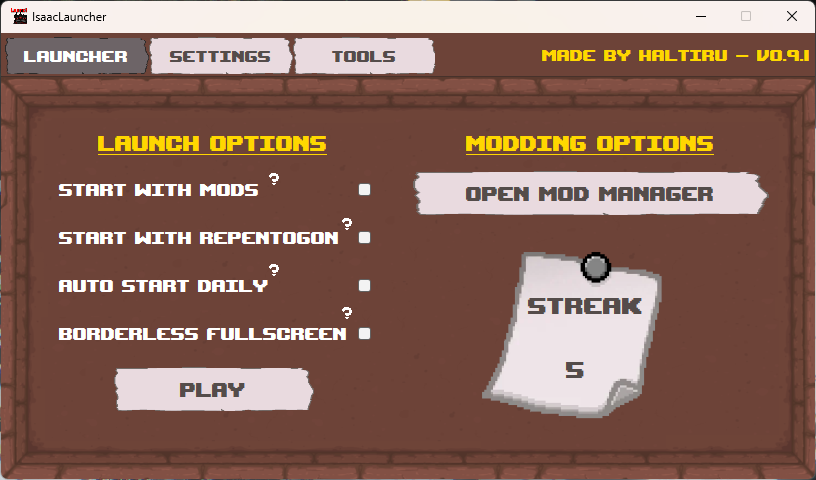
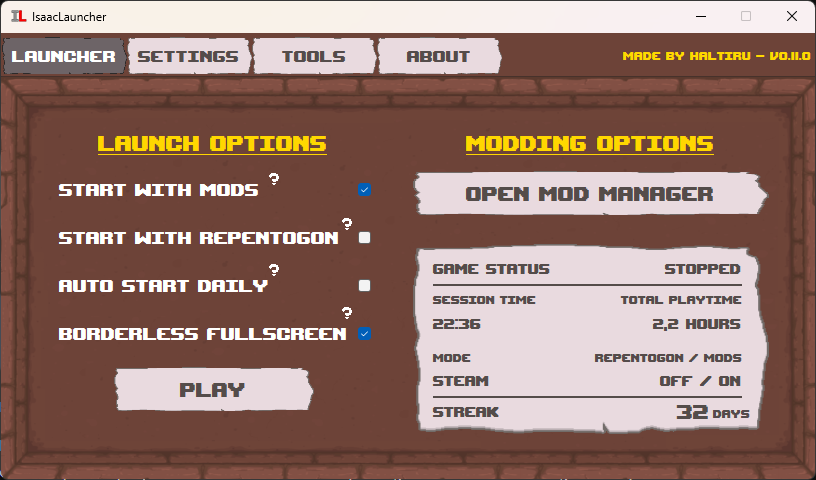
docs: update README and screenshots for v0.11.0

diff --git a/README.md b/README.md
@@ -1,261 +1,179 @@
-
 # 🎮 IsaacLauncherGUI
 
 **A feature-rich Windows launcher for The Binding of Isaac: Repentance+.**
 
-IsaacLauncherGUI is an unofficial launcher designed to make launching *The Binding of Isaac: Repentance+*, managing mods, handling save backups, and customizing your gameplay experience easier — all from one application.
+IsaacLauncherGUI is an unofficial, fan-made Windows application that makes it easier to launch *The Binding of Isaac: Repentance+*, manage mods, back up saves, and customize how the game starts.
 
-**Current Version:** `v0.10.0` — Updater & Stability Release
+**Latest stable version: `v0.11.0` — Live Game Status & Beta Update Channels**
 
-[📥 Download Latest Release](https://github.com/Haltiru/IsaacLauncher/releases/latest) • [🐛 Report a Bug](https://github.com/Haltiru/IsaacLauncher/issues) • [💡 Suggest a Feature](https://github.com/Haltiru/IsaacLauncher/issues)
+[📥 Download Latest Stable Release](https://github.com/Haltiru/IsaacLauncher/releases/latest) · [🧪 All Releases (including Betas)](https://github.com/Haltiru/IsaacLauncher/releases) · [🐛 Report a Bug](https://github.com/Haltiru/IsaacLauncher/issues) · [💡 Suggest a Feature](https://github.com/Haltiru/IsaacLauncher/issues)
 
 ---
 
 ## 📸 Screenshots
 
-### 🎮 Launcher
-![Launcher Tab](docs/screenshots/launcher-tab.png)
+### 🎮 Launcher — Game Controls & Live Status
+![Launcher tab showing game options and live game status](docs/screenshots/launcher-tab.png)
 
-### ⚙ Settings
-![Settings Tab](docs/screenshots/settings-tab.png)
+### ⚙ Settings — Launch Preferences
+![Settings tab with launch mode and system tray preferences](docs/screenshots/settings-tab.png)
 
-### 🛠 Tools
-![Tools Tab](docs/screenshots/tools-tab.png)
+### 🛠 Tools — Save Backups
+![Tools tab showing save backup controls](docs/screenshots/tools-tab.png)
+
+### ℹ About — Updates & Links
+![About tab showing beta update option and project links](docs/screenshots/about-tab.png)
 
 ### 🧩 Mod Manager
-![Mod Manager](docs/screenshots/mod-manager.png)
+
+![Mod Manager showing a mod thumbnail, formatted description, enabled and disabled mod lists](docs/screenshots/mod-manager.png)
 
 ---
 
 ## ✨ Features
 
-### 🚀 Game Launcher
+### 🚀 Game Launcher & Monitoring
 
-- **Multiple Launch Modes** — Launch through Steam, use a custom game executable, or start an existing portable game copy.
-- **REPENTOGON Support** — Configure and launch the game with REPENTOGON.
-- **Mod Toggle** — Enable or disable mods before launching.
-- **Borderless Fullscreen** — Play in a borderless fullscreen window.
-- **Instant Launch** — Automatically start the game when the launcher opens.
-- **Smart Start** — Automatically adjust mod and REPENTOGON settings around the daily challenge reset.
-- **Automatic Steam Startup** — Detect whether Steam is ready and attempt to start it when necessary.
-- **Game Monitoring** — Detect when the game starts or stops and control it using the Play/Stop button.
+- **Multiple launch modes** — Steam, a custom executable, or an existing compatible portable installation.
+- **REPENTOGON support** — Launch with a configured REPENTOGON executable.
+- **Mod toggle** — Enable or disable mods before launching.
+- **Borderless fullscreen** — Launch in a borderless window.
+- **Instant Launch** — Start the game automatically when opening the launcher.
+- **Smart Start** — Adjust launch options around daily challenge availability.
+- **Steam readiness** — Help ensure Steam is available before Steam-mode launches.
+- **Live Game Status** — See whether the game is stopped, starting, running, or stopping.
+- **Session timer & total playtime** — Track the current session and accumulated launcher-tracked playtime.
+- **Play/Stop controls** — Monitor and stop the running game from the launcher.
 
 ### 🧩 Mod Manager
 
-Manage your installed mods without manually editing game files.
-
-- Browse installed mods with names and descriptions.
-- Separate enabled and disabled mods into dedicated lists.
-- Enable or disable individual mods.
-- Enable or disable multiple mods using search filters.
+- Browse installed mods and their descriptions.
 - Search mods by name or description.
-- Display mod thumbnails.
+- View enabled and disabled mods separately.
+- Enable or disable individual mods or multiple filtered results.
+- View mod thumbnails, including downloaded thumbnails when available.
+- View formatted mod descriptions with BBCode support.
 - Open Steam Workshop pages when available.
-- Automatically download missing mod thumbnails.
-
-### 📦 Portable Mode
-
-IsaacLauncherGUI supports launching and managing existing portable game installations.
-
-- Launch an existing compatible portable game copy.
-- Support portable save locations.
-- **Ghost Mode** — Optionally clean up newly created Isaac folders after a supported portable session, using a compatibility marker and a confirmation warning.
-
-> [!IMPORTANT]
-> Creating new portable game copies is **not available in the public release**.
->
-> Portable Mode requires an existing compatible installation.
->
-> IsaacLauncherGUI does not include or distribute game files.
->
-> **Ghost Mode warning:** On compatible portable installations, cleanup may delete temporary `options.ini`, logs and `save_backups` in the newly created Isaac folder. Back up anything important before enabling it. Existing Isaac folders are not targeted.
 
 ### 💾 Save Management
 
 - Back up save data for all three save slots.
-- Support regular Steam and existing portable save locations.
-- Open the backup directory directly from the application.
+- Support regular Steam and compatible portable save locations.
+- Create a backup before launching the game, if enabled.
+- Open the backup directory directly from the launcher.
 
-### ⚙ Customization & Convenience
+### 📦 Existing Portable Installations
 
-- Persistent launcher configuration, with safer saves and recovery backups for corrupted config files.
-- Remember the launcher window position between sessions.
-- Custom game executable path.
-- Custom REPENTOGON executable path.
-- Minimize to the system tray instead of closing.
-- Optionally start minimized to the system tray.
-- Daily play streak tracking.
-- Smart Start streak tracking.
-- Custom-themed interface, buttons, settings, and tooltips.
+- Launch an existing compatible portable game installation.
+- Support compatible portable save locations.
+- **Ghost Mode** can clean up newly created Isaac folders after a supported portable session, with a confirmation warning.
 
-### 🔄 Automatic Updates
+> [!IMPORTANT]
+> Creating new portable game copies is **not included in public releases**. IsaacLauncherGUI does **not** include or distribute game files.
+>
+> **Ghost Mode:** Cleanup may remove temporary `options.ini`, logs, and `save_backups` from newly created Isaac folders. Back up anything important before enabling it. Existing Isaac folders are not targeted.
 
-- Automatically check GitHub Releases for new versions.
-- Display a custom update prompt with **Update / Later / Skip** choices.
-- Show download progress and installation status.
-- Download, extract, install and relaunch the updated launcher automatically.
-- Back up replaced application files and support rollback on installation errors.
-- Remove known leftover `.old` files from earlier launcher versions on startup.
+### ⚙ Convenience & Customization
+
+- Remember settings and window position between sessions.
+- Config recovery backups for damaged configuration files.
+- Minimize to the system tray or start minimized.
+- Custom game and REPENTOGON executable paths.
+- Daily streak tracking and custom pixel-inspired UI.
+
+### 🔄 Automatic Updates — Stable & Beta
+
+- **Stable channel (default)** — Receive stable releases only.
+- **Beta channel (opt-in)** — Receive prereleases as well as newer stable releases.
+- Semantic versioning support (for example, `0.11.0-beta.1` and `0.11.0`).
+- In-app **Update / Later / Skip** choices.
+- Download progress, installation status, automatic relaunch, and rollback on installation errors.
+
+> [!WARNING]
+> Beta releases may contain bugs or unfinished features. Switching from Beta to Stable does not automatically downgrade an installed beta build.
 
 ---
 
 ## 📥 Installation
 
-1. Visit the [Latest Release](https://github.com/Haltiru/IsaacLauncher/releases/latest) page.
-2. Download the release ZIP package.
-3. Extract the ZIP to a writable folder.
-4. Launch `IsaacLauncherGUI.exe`.
-5. Configure your game directory and preferred launch settings.
-6. Enjoy!
+1. Open the [latest stable release](https://github.com/Haltiru/IsaacLauncher/releases/latest).
+2. Download the release ZIP.
+3. Extract **all files** to a writable folder; keep the included DLLs alongside the executable.
+4. Run `IsaacLauncherGUI.exe`.
+5. Configure your game path and preferred launch options.
 
----
+To try prereleases, enable **Receive Beta Updates** on the **About** tab.
 
 ## 📋 Requirements
 
 | Requirement | Details |
 |---|---|
-| Operating System | Windows |
+| Operating system | Windows |
 | Framework | .NET Framework 4.8 |
 | Game | The Binding of Isaac: Repentance+ |
 | Steam | Required for Steam launch mode |
 | REPENTOGON | Optional |
-| Portable Mode | Existing compatible portable game copy |
-
-Some features require additional files or correctly configured paths.
+| Portable mode | Existing compatible portable installation |
 
 ---
 
-## 🛠 Building from Source
+## 🛠 Build from Source
 
-IsaacLauncherGUI is developed in **C# using Windows Forms** and targets **.NET Framework 4.8**.
-
-### Steps
-
-1. Clone the repository:
-
-   `git clone https://github.com/Haltiru/IsaacLauncher.git`
-
+1. Clone the repository: `git clone https://github.com/Haltiru/IsaacLauncher.git`
 2. Open `IsaacLauncherGUI.sln` in Visual Studio.
-3. Restore the required NuGet packages.
-4. Select the **Release** configuration.
-5. Build the solution.
+3. Restore NuGet packages.
+4. Select the **Release** configuration and build.
 
 > [!NOTE]
-> Certain private development-only components are intentionally excluded from the public source.
->
-> The public project is intended to be built in **Release** configuration. Debug builds may require additional local development files.
+> Some private development-only components are excluded from the public source. Debug builds may require additional local files.
 
 ---
 
 ## 🗺 Roadmap
 
-IsaacLauncherGUI is still actively being developed and improved.
-
 ### ✅ v0.9.0 — First Public Release
+Core launcher, multiple launch modes, REPENTOGON integration, Mod Manager, backups, and settings.
 
-The initial public version includes:
+### ✅ v0.10.0 — Updater & Stability
+Improved update installation, recovery, configuration reliability, window positioning, and portable cleanup safeguards.
 
-- Core game launcher
-- Multiple launch modes
-- REPENTOGON integration
-- Mod Manager
-- Save backups
-- Existing portable installation support
-- Custom launcher settings
-- Automatic updates
-- Quality-of-life features
+### ✅ v0.11.0 — Live Game Status & Beta Updates
+- Live game status, session timer, and total playtime.
+- Improved game startup and REPENTOGON monitoring.
+- Mod Manager thumbnail and BBCode improvements.
+- Stable/Beta update channels with semantic version handling.
+- UI refinements, refactoring, and stability improvements.
 
-### ✅ v0.10.0 — Updater & Stability Release
-
-- Redesigned in-app update dialog with progress and status displays.
-- Automatic update installation and launcher restart.
-- Launcher window position persistence.
-- Safer config saving and recovery from corrupted `config.json` files.
-- More cautious Ghost Mode cleanup for supported portable installations.
-- Fixed portable `options.ini` overwriting and cleaned up leftover `.old` files.
-
-### 🔧 Future v0.x Updates
-
-Portable-launcher configuration switching and other quality-of-life improvements are planned for later updates.
-
-Development will focus on:
-
-- [ ] Bug fixes and stability improvements
+### 🔧 Future v0.x Releases
+- [ ] Bug fixes and reliability improvements
 - [ ] Performance optimizations
-- [ ] UI/UX improvements and revamps
-- [ ] Quality-of-life additions
-- [ ] Improved reliability
-- [ ] General polishing and testing
+- [ ] UI/UX polishing
+- [ ] Quality-of-life features
 
-### 🎯 v1.0.0 — The Major Milestone
+### 🎯 v1.0.0 — Major Milestone
+- [ ] **Profile Manager** for gameplay configurations.
+- [ ] Complete major bug fixes and reliability improvements.
+- [ ] Optimize and polish the application and UI.
+- [ ] Thoroughly test the finished release.
 
-Version **1.0.0** will represent the first fully polished major release of IsaacLauncherGUI.
-
-Planned goals:
-
-- [ ] **Profile Manager** — Create and manage different gameplay profiles and configurations.
-- [ ] Complete major bug fixes.
-- [ ] Improve performance and optimization.
-- [ ] Revamp and polish the user interface.
-- [ ] Refine the overall user experience.
-- [ ] Reach a stable and reliable release state.
-
-> **There is no fixed release date for v1.0.0.**
->
-> It will be released when the launcher is ready, stable, and sufficiently polished.
-
-Roadmap features and priorities may change during development.
+**No fixed release date:** v1.0.0 will ship when the launcher is ready.
 
 ---
 
 ## 🙏 Credits
 
-### REPENTOGON Team
-
-The Mod Manager in IsaacLauncherGUI was strongly inspired by the REPENTOGON team's Mod Manager, particularly its design and overall workflow.
-
-IsaacLauncherGUI is an independently developed C# project, but credit goes to the **REPENTOGON Team** for the inspiration.
-
----
+The Mod Manager's design and workflow were strongly inspired by the **REPENTOGON Team**. IsaacLauncherGUI is independently developed in C#.
 
 ## 🐛 Bug Reports & Feature Requests
 
-Found a bug? Have an idea for a new feature?
-
-Feel free to open an issue on GitHub:
-
-**[🐛 Open an Issue](https://github.com/Haltiru/IsaacLauncher/issues)**
-
-When reporting a bug, please include:
-
-- Launcher version
-- Description of the problem
-- Steps to reproduce the issue
-- Relevant error messages
-- Screenshots, if applicable
-
-Your feedback helps make IsaacLauncherGUI better!
-
----
+Please [open a GitHub issue](https://github.com/Haltiru/IsaacLauncher/issues) with the launcher version, steps to reproduce, error messages, and screenshots when relevant.
 
 ## ⚠ Disclaimer
 
-IsaacLauncherGUI is an independent, unofficial fan-made project.
+IsaacLauncherGUI is an independent, unofficial fan project. It is not affiliated with or endorsed by Edmund McMillen, the developers or publishers of *The Binding of Isaac*, or the REPENTOGON Team. No game files are included or distributed.
 
-It is **not affiliated with, endorsed by, or associated with** the developers or publishers of *The Binding of Isaac*.
+## ❤ Support
 
-This repository does not include or distribute *The Binding of Isaac* game files.
-
-Users are responsible for obtaining the game and any optional third-party components from appropriate sources.
-
----
-
-## ❤ Support the Project
-
-If you enjoy IsaacLauncherGUI, consider leaving a ⭐ on the repository!
-
-Suggestions, feedback, and bug reports are always appreciated.
-
-**Made with ❤ for The Binding of Isaac community.**
+If you find the launcher useful, consider starring the repository. Feedback and bug reports are welcome!
 
 *Good luck on your next run — and may Dead God be with you!* 🏆
